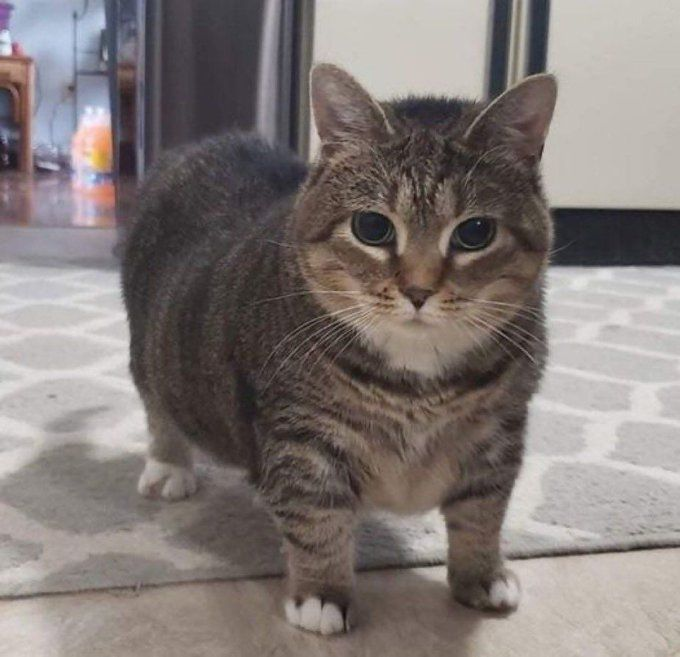
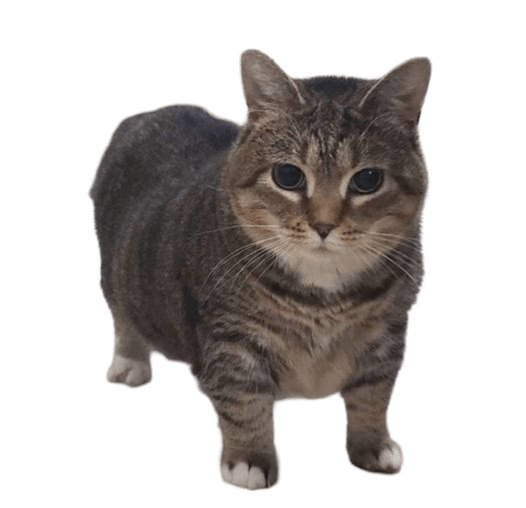
fix: error when choose wrong card

diff --git a/Front-end/src/components/game/GameBoard.tsx b/Front-end/src/components/game/GameBoard.tsx
@@ -99,6 +99,28 @@ export function GameBoardView({
     level: "warning" | "danger";
     message: string;
   }>();
+  const [targetError, setTargetError] = useState<string>();
+  const targetErrorTimeoutRef = useRef<NodeJS.Timeout | undefined>(undefined);
+
+  const showTargetError = (message: string) => {
+    if (targetErrorTimeoutRef.current) {
+      clearTimeout(targetErrorTimeoutRef.current);
+    }
+    setTargetError(message);
+    targetErrorTimeoutRef.current = setTimeout(() => {
+      setTargetError(undefined);
+      targetErrorTimeoutRef.current = undefined;
+    }, 1000);
+  };
+
+  useEffect(() => {
+    return () => {
+      if (targetErrorTimeoutRef.current) {
+        clearTimeout(targetErrorTimeoutRef.current);
+      }
+    };
+  }, []);
+
   const previousChampionIdsRef = useRef<Set<string>>(new Set());
 
   useEffect(() => {
@@ -546,6 +568,7 @@ export function GameBoardView({
         (targetKind === "ENEMY_UNIT" && playerId !== casterId);
 
       if (!isValidUnitTarget) {
+        showTargetError("Wrong target! Read the description of card and choose again");
         return;
       }
 
@@ -1744,6 +1767,12 @@ export function GameBoardView({
             <button type="button" onClick={() => setAfkNotice(undefined)} aria-label="Đóng cảnh báo AFK">
               <X size={16} aria-hidden="true" />
             </button>
+          </div>
+        ) : null}
+
+        {targetError ? (
+          <div className="afk-notice afk-notice--danger" style={{ borderColor: "#ffaa00", background: "rgba(90, 45, 0, 0.95)" }} role="alert">
+            <span>{targetError}</span>
           </div>
         ) : null}
 

diff --git a/Front-end/src/components/lobby/PhaserSplash.tsx b/Front-end/src/components/lobby/PhaserSplash.tsx
@@ -8,27 +8,17 @@ import gaia from "../../assets/heros/gaia.png";
 import laevan from "../../assets/heros/laevan.png";
 import raye from "../../assets/heros/raye.png";
 import varesa from "../../assets/heros/varesa.png";
-import catHitle from "../../assets/catMeme/cat-Hitle.png";
 import catMeimei from "../../assets/catMeme/cat-Meimei.png";
 import catUIA from "../../assets/catMeme/cat-UIA.png";
-import catAss from "../../assets/catMeme/cat-ass.png";
-import catGoat from "../../assets/catMeme/cat-goat.png";
-import catSaddle from "../../assets/catMeme/cat-saddle.png";
-import catSerious from "../../assets/catMeme/cat-serious.png";
 import catSigma from "../../assets/catMeme/cat-sigma.jpeg";
 
 const splashes = [
-  { key: "cat-hitle", src: catHitle.src },
+  { key: "gaia", src: gaia.src },
   { key: "cat-meimei", src: catMeimei.src },
   { key: "cat-uia", src: catUIA.src },
-  { key: "cat-ass", src: catAss.src },
-  { key: "cat-goat", src: catGoat.src },
-  { key: "cat-saddle", src: catSaddle.src },
-  { key: "cat-serious", src: catSerious.src },
   { key: "cat-sigma", src: catSigma.src },
   { key: "aoi", src: aoi.src },
   { key: "eldlich", src: eldlich.src },
-  { key: "gaia", src: gaia.src },
   { key: "laevan", src: laevan.src },
   { key: "raye", src: raye.src },
   { key: "varesa", src: varesa.src },
